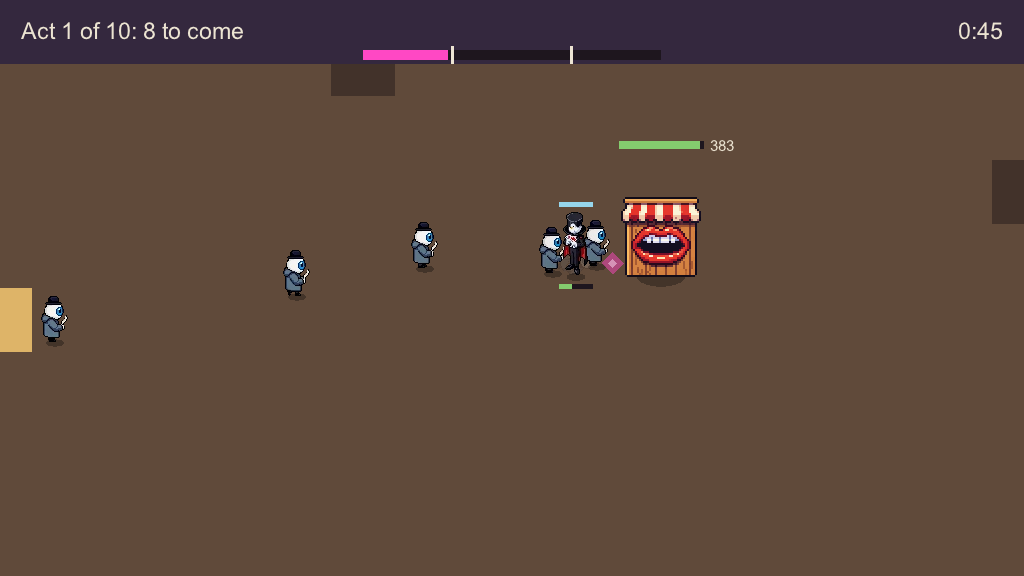
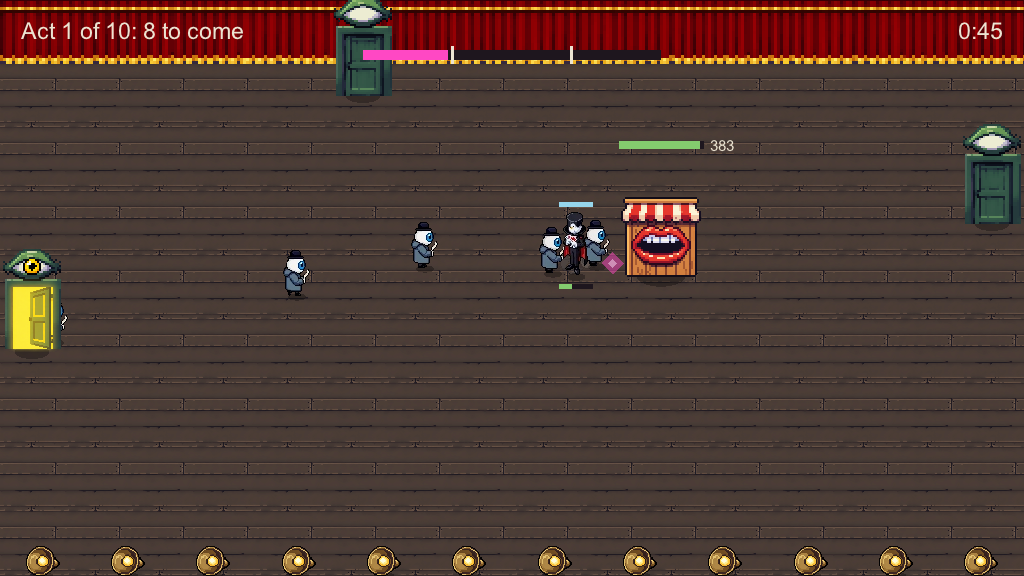
T07d: the stage set: the floor's boards, the curtain along the back wall, three doors with an eye over each, the open one lit, and the footlights, in pixel art from ludo.ai
Claude-Session: https://claude.ai/code/session_01V4qXWgB4bHFXePzLiSUbYT

diff --git a/src/Understudies.Game/UnderstudiesGame.cs b/src/Understudies.Game/UnderstudiesGame.cs
@@ -25,6 +25,7 @@ internal sealed partial class UnderstudiesGame : Microsoft.Xna.Framework.Game
     private const float SpritePixelsPerUnit = 64f / MagicianHeight;
     private const float WalkFramesPerSecond = 12f;
     private const float ShadowOpacity = 0.3f;
+    private const float FootlightGap = 4f;
     private const float ThrownCardWidth = 0.5f;
     private const float ThrownCardHeight = 0.35f;
 
@@ -82,9 +83,6 @@ internal sealed partial class UnderstudiesGame : Microsoft.Xna.Framework.Game
 
     private static readonly Color Surround = new(24, 18, 28);
     private static readonly Color BackWall = new(52, 40, 62);
-    private static readonly Color Floor = new(96, 74, 58);
-    private static readonly Color OpenDoor = new(222, 180, 104);
-    private static readonly Color ShutDoor = new(66, 50, 42);
     private static readonly Color HitPoints = new(132, 204, 110);
     private static readonly Color HitPointsLost = new(30, 22, 30);
     private static readonly Color Magician = new(250, 226, 120);
@@ -124,7 +122,11 @@ internal sealed partial class UnderstudiesGame : Microsoft.Xna.Framework.Game
     private readonly string _spritesFolder;
 
     // By Figure and then by Facing; a figure with one view has that one alone.
-    private readonly Sheet[][] _sheets = new Sheet[4][];
+    private readonly Sheet[][] _sheets = new Sheet[7][];
+
+    // The set's two pictures that are laid side by side: the boards of the floor and the curtain of the back wall.
+    private Sheet _floor = null!;
+    private Sheet _curtain = null!;
 
     // The view's own time, in seconds: what a walk's frames are counted by.
     private float _walkClock;
@@ -189,6 +191,15 @@ internal sealed partial class UnderstudiesGame : Microsoft.Xna.Framework.Game
             [ReadSheet("critic-down.png", 3), ReadSheet("critic-up.png", 3), ReadSheet("critic-side.png", 3)];
         _sheets[(int)Figure.Stagehand] = [ReadSheet("stagehand-down.png", 3)];
         _sheets[(int)Figure.BoxOffice] = [ReadSheet("box-office.png", 1, block: 6f)];
+
+        // The set (plan T07d). The doors are stills like the box office and drawn at its pixel size, a footlight at
+        // the figures'. The floor's picture is sixteen file pixels to a sprite pixel. The curtain's own pixel is
+        // twelve, and it is drawn four to a sprite pixel, which makes it as tall as the back wall.
+        _sheets[(int)Figure.ShutDoor] = [ReadSheet("door-shut.png", 1, block: 6f)];
+        _sheets[(int)Figure.OpenDoor] = [ReadSheet("door-open.png", 1, block: 6f)];
+        _sheets[(int)Figure.Footlight] = [ReadSheet("footlight.png", 1, block: 12f)];
+        _floor = ReadSheet("floor.png", 1, block: 16f);
+        _curtain = ReadSheet("curtain.png", 1, block: 4f);
 
         if (FontFiles.FirstOrDefault(File.Exists) is { } fontFile)
         {
@@ -437,22 +448,22 @@ internal sealed partial class UnderstudiesGame : Microsoft.Xna.Framework.Game
 
         GraphicsDevice.Clear(Surround);
 
-        // The back wall, the floor below it and what lies flat on the floor.
-        // Every batch that draws a sprite takes its pixels as they are: a sprite is never smoothed.
-        _spriteBatch.Begin(samplerState: SamplerState.PointClamp, transformMatrix: worldToScreen);
-        var floorTopLeft = new Vector2(0f, Tuning.StageFloorTop);
+        // The set: the back wall with its curtain hung to the floor's top, and the boards of the floor below it.
+        // The two pictures are laid side by side, so this batch lets a picture go round at its edges. Every batch
+        // that draws a sprite takes its pixels as they are: a sprite is never smoothed.
+        _spriteBatch.Begin(samplerState: SamplerState.PointWrap, transformMatrix: worldToScreen);
         var across = new Vector2(Tuning.StageSize.X + (2f * past.X), 0f);
         Fill(-past, across with { Y = Tuning.StageFloorTop + past.Y }, BackWall);
-        Fill(floorTopLeft with { X = -past.X }, across with { Y = Tuning.StageSize.Y - Tuning.StageFloorTop + past.Y }, Floor);
-        for (int i = 0; i < Tuning.StageDoors.Count; i++)
-        {
-            // A door is a mat as wide as the door, the half of it that is on the floor: lit when the door is open
-            // in this act, and dim while it is shut.
-            var half = new Vector2(Tuning.StageDoorWidth / 2f);
-            Vector2 topLeft = Vector2.Max(Tuning.StageDoors[i].Position - half, floorTopLeft);
-            Vector2 bottomRight = Vector2.Min(Tuning.StageDoors[i].Position + half, Tuning.StageSize);
-            Fill(topLeft, bottomRight - topLeft, _simulation.DoorIsOpen(i) ? OpenDoor : ShutDoor);
-        }
+        Lay(
+            _floor,
+            new Vector2(-past.X, Tuning.StageFloorTop),
+            across with { Y = Tuning.StageSize.Y - Tuning.StageFloorTop + past.Y });
+        float curtainHeight = _curtain.First.Height * SpritePixel / _curtain.Block;
+        Lay(_curtain, new Vector2(-past.X, Tuning.StageFloorTop - curtainHeight), across with { Y = curtainHeight });
+        _spriteBatch.End();
+
+        // What lies flat on the floor.
+        _spriteBatch.Begin(samplerState: SamplerState.PointClamp, transformMatrix: worldToScreen);
 
         foreach (Understudy understudy in _simulation.Understudies)
         {
@@ -503,6 +514,23 @@ internal sealed partial class UnderstudiesGame : Microsoft.Xna.Framework.Game
         // office stands a hair behind its foot line, so whoever stands exactly on that line is in front.
         const float hair = 0.001f;
         DrawFigure(Figure.BoxOffice, boxOfficeFeet - new Vector2(0f, hair), white: _juice.BoxOfficeWhite);
+        for (int i = 0; i < Tuning.StageDoors.Count; i++)
+        {
+            // A door stands on the floor in front of where its critics enter, half its width before them and kept
+            // within the stage's sides: who enters comes out from behind it. It is lit while it is open.
+            Vector2 mouth = Tuning.StageDoors[i].Position;
+            float half = Tuning.StageDoorWidth / 2f;
+            DrawFigure(
+                _simulation.DoorIsOpen(i) ? Figure.OpenDoor : Figure.ShutDoor,
+                new Vector2(Math.Clamp(mouth.X, half, Tuning.StageSize.X - half), mouth.Y + half));
+        }
+
+        // The footlights, along the stage's front edge and in front of all that stands on it.
+        for (float x = FootlightGap / 2f; x < Tuning.StageSize.X; x += FootlightGap)
+        {
+            DrawFigure(Figure.Footlight, new Vector2(x, Tuning.StageSize.Y));
+        }
+
         Vector2 magicianFeet = Vector2.Lerp(_simulation.MagicianPreviousPosition, _simulation.MagicianPosition, alpha);
         Vector2 magicianStep = _simulation.MagicianPosition - _simulation.MagicianPreviousPosition;
         if (magicianStep != Vector2.Zero)
@@ -867,8 +895,7 @@ internal sealed partial class UnderstudiesGame : Microsoft.Xna.Framework.Game
         // ponytail: a figure is so up to a third smaller or larger than its units say, with the window's size, and
         // larger still in a window narrower than 1024. A stage drawn to a target of its own at the sprites' measure
         // and scaled whole would end that.
-        float pixel = MathF.Max(1f, MathF.Round(_scale / SpritePixelsPerUnit)) / _scale;
-        float unit = pixel / sheet.Block;
+        float unit = SpritePixel / sheet.Block;
         float width = source.Width * unit;
         var onAPixel = new Vector2(MathF.Round(feet.X * _scale), MathF.Round(feet.Y * _scale)) / _scale;
 
@@ -909,6 +936,33 @@ internal sealed partial class UnderstudiesGame : Microsoft.Xna.Framework.Game
         {
             Copy(sheet.White, Color.White * (white * opacity), over);
         }
+    }
+
+    /// <summary>How long a sprite pixel is in world units in the frame being drawn.</summary>
+    private float SpritePixel => MathF.Max(1f, MathF.Round(_scale / SpritePixelsPerUnit)) / _scale;
+
+    /// <summary>
+    /// A picture laid side by side over a rectangle of the stage, its first copy's corner on the stage's own corner
+    /// across, so that a shaken stage carries its boards with it. For a batch that lets a picture go round.
+    /// </summary>
+    private void Lay(Sheet sheet, Vector2 topLeft, Vector2 size)
+    {
+        float unit = SpritePixel / sheet.Block;
+        var source = new Rectangle(
+            sheet.First.X + (int)MathF.Round(topLeft.X / unit),
+            sheet.First.Y,
+            (int)MathF.Ceiling(size.X / unit),
+            (int)MathF.Ceiling(size.Y / unit));
+        _spriteBatch.Draw(
+            sheet.Image,
+            topLeft,
+            source,
+            Color.White,
+            0f,
+            Microsoft.Xna.Framework.Vector2.Zero,
+            unit,
+            SpriteEffects.None,
+            0f);
     }
 
     /// <summary>A sheet of the sprites' folder: its picture, a white copy of it, and where its first frame is.</summary>
@@ -1009,5 +1063,8 @@ internal sealed partial class UnderstudiesGame : Microsoft.Xna.Framework.Game
         Critic,
         Stagehand,
         BoxOffice,
+        ShutDoor,
+        OpenDoor,
+        Footlight,
     }
 }

diff --git a/CLAUDE.md b/CLAUDE.md
@@ -35,7 +35,7 @@ Three projects, with one-way dependencies: **Core** ← **Game** and **Core.Test
   - `Simulation.ComputeStateHash` is an FNV-1a hash of everything that decides what happens next. State added to the simulation is added to it in the same change, a `float` by its bits; what only the view reads (the positions before the last tick, the events, where a card was thrown from) stays out. It walks every recording whole, so it is for tests and scripted players and not for every frame;
   - a time in `tuning.json` is in seconds and a rule counts it in whole ticks;
   - `tuning.json` at the repository root is the only place a rule's number lives (the tick rate is the one constant in code; the juice's numbers decide no rule and are constants in the view). `Tuning` is the record parsed from it, and `Simulation` is given one by whoever creates it. A new number is a new member of `Tuning` and a new key in the file: an unknown key and a missing key are both refused, at any depth.
-- `src/Understudies.Game` is the MonoGame (DesktopGL) layer: input, drawing, sound. It holds no rules: it feeds the simulation the player's input each tick and draws what the simulation reports, with positions interpolated between the last two ticks. There is no content pipeline. The figures (the magician, the critic, the stagehand, the box office) are pixel-art sprites read at start-up with `Texture2D.FromFile` from `art/ludo/sprites/` (`ReadSheet`; found as `tuning.json` is, and copied beside the built game), and everything else is shapes. A walking figure is a sheet of three rows of three frames for each of three views (toward the viewer, away, and to the right, mirrored for the left); `DrawFigure` picks the view from where the figure goes and the frame from the view's own clock, and draws a sprite pixel as a whole number of screen pixels, unsmoothed, so a figure's size on the screen follows the window in steps (the window opens at 1024 × 576, where a sprite pixel is one screen pixel). The flash is a white copy of the sprite drawn over it, an understudy is the magician's sprite washed with its act's colour, and a standing figure has a shadow. `art/prompt-guide.md` is the recipe a new figure is made by. What makes a blow felt (flashes, scraps, fading bodies, the shake, the hit-stop) is the view's own state, in `Juice.cs`: `UnderstudiesGame.Tick` feeds it the simulation after every tick (whatever else the events drive, the sound for one, is fed there too), the frame's time advances it, and the drawing asks it what to add. The capture mode feeds and advances it the same way, a sixtieth of a second a tick. It is advanced in every phase: between two acts the simulation stands and the juice still settles. Its numbers are named constants at the top of that file. A figure is drawn by `DrawFigure` alone, which is asked for a flash, a fallen pose and an opacity: nothing paints over a figure with a shape of its own, so the juice holds whatever a figure is drawn from. Text is `FontStashSharp.MonoGame` over a system font found at start-up (the first of `FontFiles` that exists; with none the game runs without text and says so on the console), and it is drawn in screen pixels at a size taken from the window, never scaled up from world units. An understudy is the magician's figure through `DrawFigure`'s `tint` and `opacity`, never a figure of its own. The program's screen is `ProgramScreen.cs`, a second part of the one `UnderstudiesGame` class: the panels, the choosing and the card just taken. `Update` reads a frame's presses by the phase the frame began in, so one press never does two things: in a program `ChooseInTheProgram` moves the highlight and takes a card (`Take`), and outside it Space or A is the Vanish and Enter or Start is `GoOn`. Every press there is an edge against `_keysBefore` and `_padBefore`, the stick too, and that is all that keeps a key held since the act from taking a card: an input added to the program must be an edge as well. The view keeps a copy of the offer (`_offered`, made in `Tick` when a program opens), because `Pick` empties the simulation's: the card taken is shown from the copy for `TakenTime`, in which `GoOn` is not called, and a program that ended inside `Tick` is the clock's pick of the leftmost. `Describe` names a card and what it changes, from the tuning. `Write` draws words in screen pixels from a point of the stage (`_scale` and `_corner` are the frame's). The capture's script calls `Pick(0)` and `GoOn` by itself before every tick, so a program takes none of a capture's ticks, and a capture that ends on an act's last tick shows that act's program as it opens. Inside this project `Game` means the namespace, so MonoGame's base class is written `Microsoft.Xna.Framework.Game`.
+- `src/Understudies.Game` is the MonoGame (DesktopGL) layer: input, drawing, sound. It holds no rules: it feeds the simulation the player's input each tick and draws what the simulation reports, with positions interpolated between the last two ticks. There is no content pipeline. The figures (the magician, the critic, the stagehand, the box office) are pixel-art sprites read at start-up with `Texture2D.FromFile` from `art/ludo/sprites/` (`ReadSheet`; found as `tuning.json` is, and copied beside the built game), and so is the set (plan T07d): the floor's boards and the back wall's curtain, two pictures laid side by side by `Lay` in a batch that lets a picture go round, the three stage doors (a shut picture and a lit one, by `DoorIsOpen`) and the footlights along the front edge, which go through `DrawFigure` like a figure. Everything else is shapes. A walking figure is a sheet of three rows of three frames for each of three views (toward the viewer, away, and to the right, mirrored for the left); `DrawFigure` picks the view from where the figure goes and the frame from the view's own clock, and draws a sprite pixel as a whole number of screen pixels, unsmoothed, so a figure's size on the screen follows the window in steps (the window opens at 1024 × 576, where a sprite pixel is one screen pixel). The flash is a white copy of the sprite drawn over it, an understudy is the magician's sprite washed with its act's colour, and a standing figure has a shadow. `art/prompt-guide.md` is the recipe a new figure is made by. What makes a blow felt (flashes, scraps, fading bodies, the shake, the hit-stop) is the view's own state, in `Juice.cs`: `UnderstudiesGame.Tick` feeds it the simulation after every tick (whatever else the events drive, the sound for one, is fed there too), the frame's time advances it, and the drawing asks it what to add. The capture mode feeds and advances it the same way, a sixtieth of a second a tick. It is advanced in every phase: between two acts the simulation stands and the juice still settles. Its numbers are named constants at the top of that file. A figure is drawn by `DrawFigure` alone, which is asked for a flash, a fallen pose and an opacity: nothing paints over a figure with a shape of its own, so the juice holds whatever a figure is drawn from. Text is `FontStashSharp.MonoGame` over a system font found at start-up (the first of `FontFiles` that exists; with none the game runs without text and says so on the console), and it is drawn in screen pixels at a size taken from the window, never scaled up from world units. An understudy is the magician's figure through `DrawFigure`'s `tint` and `opacity`, never a figure of its own. The program's screen is `ProgramScreen.cs`, a second part of the one `UnderstudiesGame` class: the panels, the choosing and the card just taken. `Update` reads a frame's presses by the phase the frame began in, so one press never does two things: in a program `ChooseInTheProgram` moves the highlight and takes a card (`Take`), and outside it Space or A is the Vanish and Enter or Start is `GoOn`. Every press there is an edge against `_keysBefore` and `_padBefore`, the stick too, and that is all that keeps a key held since the act from taking a card: an input added to the program must be an edge as well. The view keeps a copy of the offer (`_offered`, made in `Tick` when a program opens), because `Pick` empties the simulation's: the card taken is shown from the copy for `TakenTime`, in which `GoOn` is not called, and a program that ended inside `Tick` is the clock's pick of the leftmost. `Describe` names a card and what it changes, from the tuning. `Write` draws words in screen pixels from a point of the stage (`_scale` and `_corner` are the frame's). The capture's script calls `Pick(0)` and `GoOn` by itself before every tick, so a program takes none of a capture's ticks, and a capture that ends on an act's last tick shows that act's program as it opens. Inside this project `Game` means the namespace, so MonoGame's base class is written `Microsoft.Xna.Framework.Game`.
   - the sound is `Sound.cs`, the view's own state like the juice and fed in `Tick` beside it: seven short sounds worked out in code at start-up and handed to MonoGame as `SoundEffect`s (no sound file, no content pipeline), one for each of the event kinds `Throw`, `Hit`, `Kill`, `Vanish`, `BoxOfficeStruck`, `MagicianHurt` and `ApplausePickedUp`. A kind of event that has no sound there is silent. How loud each is, the gap between two starts of one sound and every recipe are named constants at the top of that file. A capture makes no `SoundEffect`, so it opens no audio device, and a machine that has none runs the game silent. A sound cannot be reviewed by a captured frame: a changed one is measured by hand (its length, its peak, that it starts and ends at zero: nothing in the repository does it) and then judged by the owner's ear.
 - `tests/Understudies.Core.Tests` is NUnit: the rule tests and the scripted players that measure the balance (plan T19, decision 22). `ScriptedPlayers` has the two players, the orbit player and the doors player, each a function from the simulation's public surface to one tick's input, with no state and no randomness of its own and Core's arithmetic rule; the one order both pick cards by; and `Play`, which plays a performance to its end and returns its record act by act. The orbit player is played on three circles (`OrbitRadii`: on the box office, close round it, out where the throw still reaches across), and the design has beaten hiding on a seed only when all three lost: a tuning that beats one circle has beaten a script. The doors player holds the newest door, steps back from a critic that is upon it, and goes back to the box office while a critic is at it. The committed tuning is tuned to the guard (plan T20), and `ScriptedPlayersTests.TheGuard_OnTheCommittedTuning_...` is the ordinary test that holds it there: over the seeds 1 to 20 the orbit loses the box office by the end of act six in at least 16 and the doors player finishes act ten in at least 16. A change to `tuning.json`, to a rule or to a player that breaks it is a finding about the design, not a number to loosen. `PrintTheGuardsTable` plays the same performances and prints how each ended, act by act, and the guard's two counts; `PrintTheTableOnAnotherBudget` prints the same on three other budgets. The two `..._EndsInThePinnedStateHashOnEveryMachine` tests are the pinned state hash of decision 9: two scripted performances (the doors player on the committed tuning; the orbit player with a fuller first act, with Vanishes, stuns and blows on the box office) whose hashes, at the end of act three and at the end, must be the same on macOS ARM and in CI on Linux x64. A change to `tuning.json`, to a rule or to a player changes them: pin the numbers again from the failure's message and say so in the pull request. If the two machines ever disagree, do not make it pass: keep a pin for each machine and tell the owner. Every act opens with a curtain in which `Step` only counts the curtain down, so a test scene that counts its ticks from the first tick of an act sets `CurtainTime = 0f` in its own tuning (no curtain); `CurtainTests` are the ones with a curtain.
 - `tuning.json` is copied by the project files beside the tests and beside the built game. The tests read that copy through `CommittedTuning`, so a test never carries its own numbers. The game reads `tuning.json` in the current directory first (the committed file itself, as commands run from the root) and the copy beside the executable otherwise; F5 reads it again while the game runs.

diff --git a/art/prompt-guide.md b/art/prompt-guide.md
@@ -28,6 +28,12 @@ A figure is an ordinary theatre person or thing with one part that is something 
 - The sheet must come back with one file pixel to a sprite pixel, and every figure to one measure: the magician is 64 sprite pixels for its three units, so a figure of two units is about 43. `--frame-size 64` gives the magician that, and `--frame-size 32` a figure of two units (the size names the sprite's width more than its height). A sheet that came back larger is exported again for nothing with `ludo sprite adjust --spritesheet-url <its url> --frame-size 32`.
 - The sheet is three rows of three frames, each frame cropped to the same size within a sheet.
 
+## The set
+
+- The floor: `--image-type texture --perspective "Top-Down" --art-style "16-Bit"`, asked to be calm, dark and low in contrast so that figures stand out on it. It comes back 1024 pixels, sixteen to a sprite pixel, and goes round at every edge.
+- The curtain: `--image-type sprite-tiling-horizontal`, "seen flat from the front ... repeating seamlessly left to right". It goes round left to right; its own pixel is twelve file pixels and it is drawn three times that size to be as tall as the back wall.
+- A door or a lamp is a still like a building (see above). The lit door is `ludo image edit` of the shut one ("keep the exact same door frame, size, position and pixel art style ..."): the edit keeps the shape and loses the pixel grid inside the doorway, which is seen only close up.
+
 ## Into the game
 
-The file goes to `art/ludo/sprites/` under the name `ReadSheet` is given in `UnderstudiesGame.LoadContent`, and the stills that were returned to `art/ludo/sprites/raw/`.
+The file goes to `art/ludo/sprites/` under the name `ReadSheet` is given in `UnderstudiesGame.LoadContent`, and the stills that were returned to `art/ludo/sprites/raw/` (the set's to `art/ludo/set/raw/`).

diff --git a/README.md b/README.md
@@ -45,7 +45,7 @@ On the committed numbers the script loses, and a capture shows the first act and
 
 A capture is silent: it makes no sound and opens no audio device.
 
-The figures are pixel-art sprites made with ludo.ai, read from `art/ludo/sprites/` (the repository's own when the game is run from its root, a copy beside the executable otherwise). `art/prompt-guide.md` has the recipe they were made by, and each `manifest.json` under `art/ludo/` the prompt and the settings of every generation.
+The figures and the stage set are pixel-art sprites made with ludo.ai, read from `art/ludo/sprites/` (the repository's own when the game is run from its root, a copy beside the executable otherwise). `art/prompt-guide.md` has the recipe they were made by, and each `manifest.json` under `art/ludo/` the prompt and the settings of every generation.
 
 The script was written on the numbers of before plan T20, on which it played to the ovation: on the committed ones it loses in the second act, so no capture reaches an understudy's Vanish, the third act, the third door or the ovation. A script that plays the committed numbers is a ticket of its own.
 

diff --git a/docs/plan-prototype.md b/docs/plan-prototype.md
@@ -134,6 +134,7 @@ The picked tool's recipe is written down in `art/prompt-guide.md`, so that later
 - No test.
 
 **T07d The stage set.** *After the pick.*
+*Allowance:* the ticket was written without a number; the owner said on 2026-10-08 that the limits are not the problem and not to overdo it either. It took ten pictures (5 credits).
 The stage stops being a brown rectangle: a floor, a curtain along the back wall of T07a, footlights along the bottom edge, and the three stage doors drawn as doors, the open one lit; made with the picked tool or composed from its pieces.
 - A captured frame shows the set.
 - No test.
